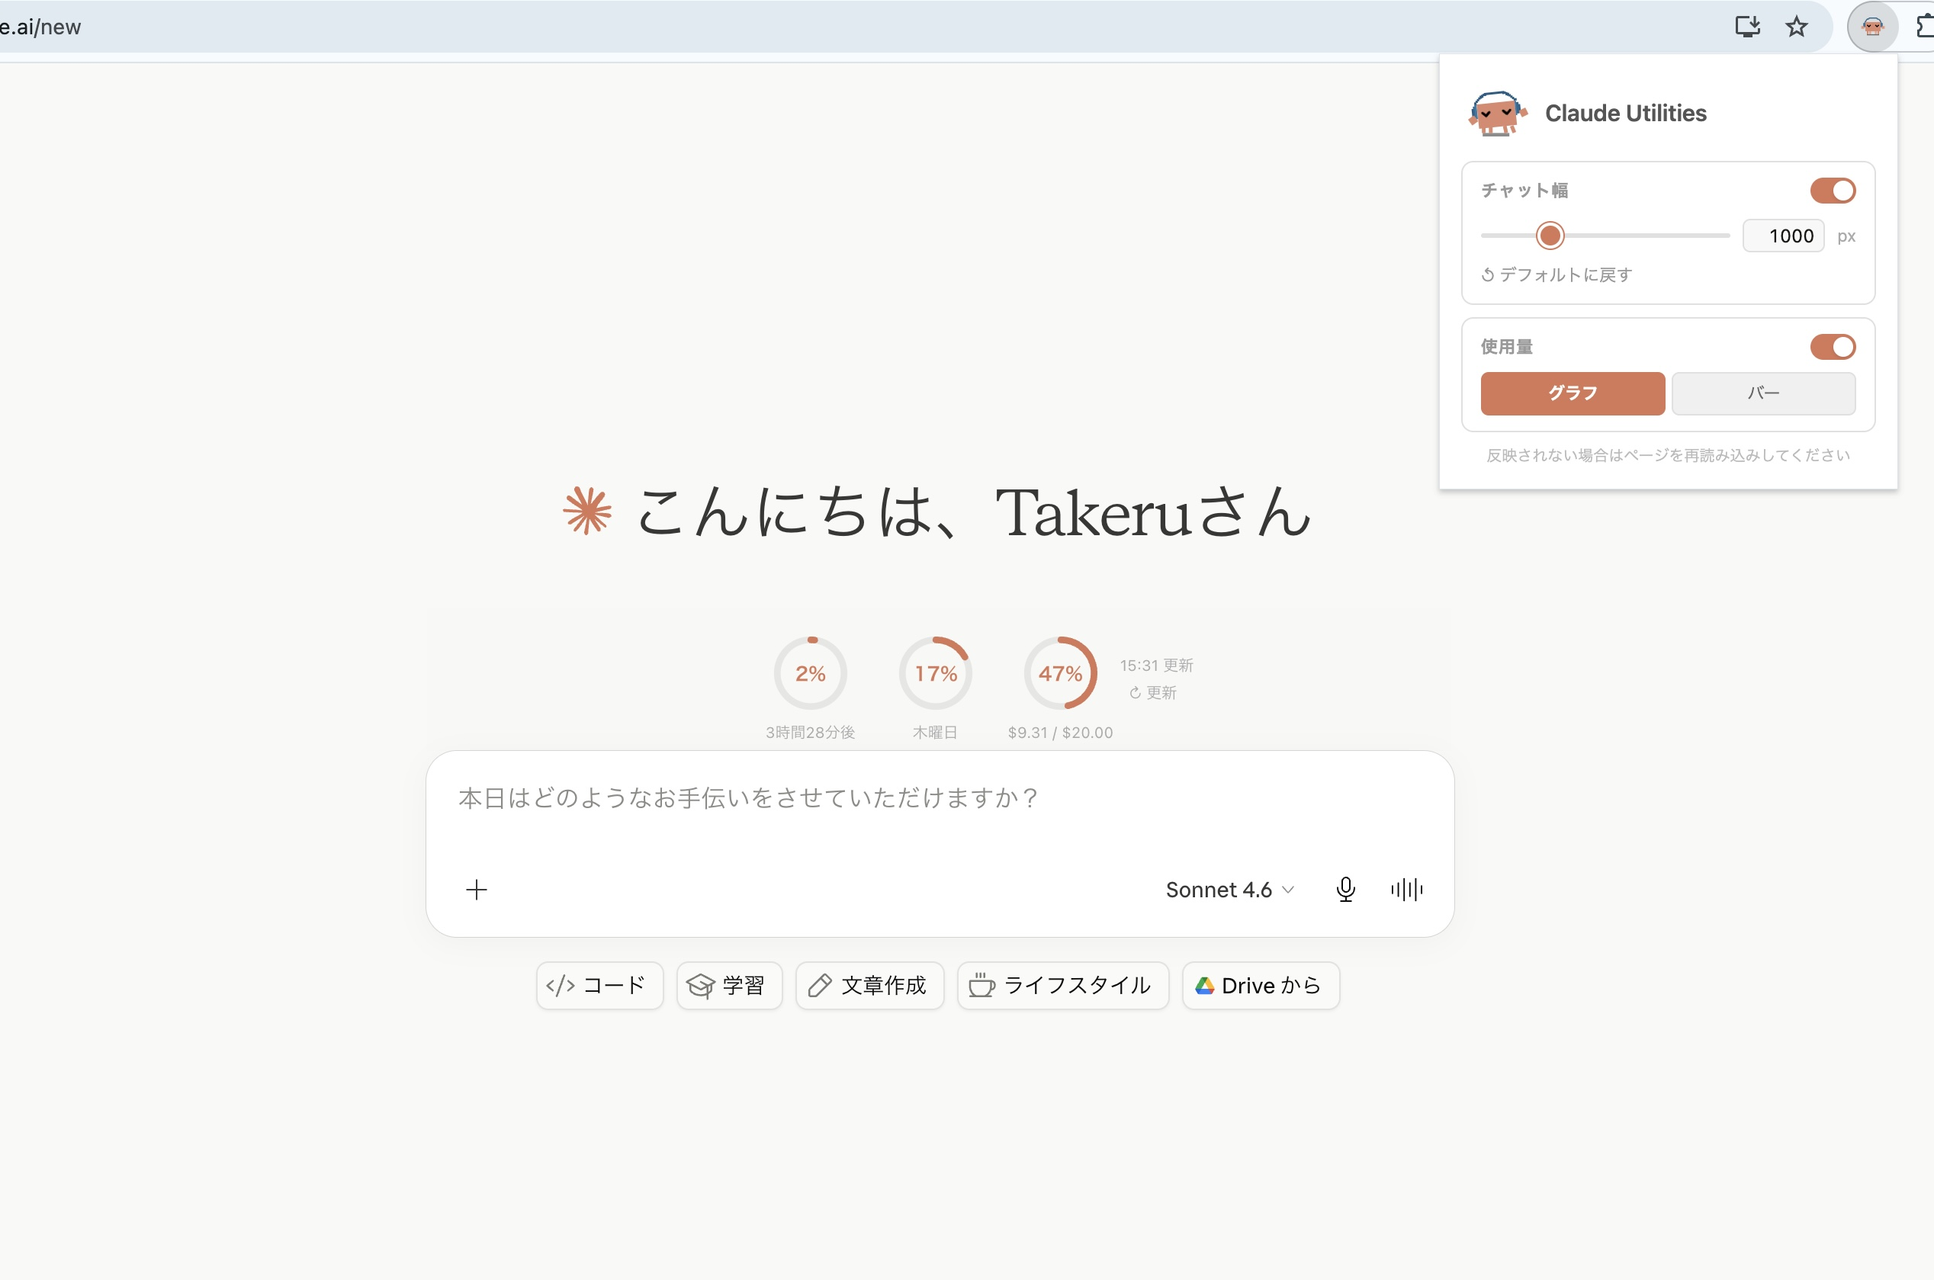
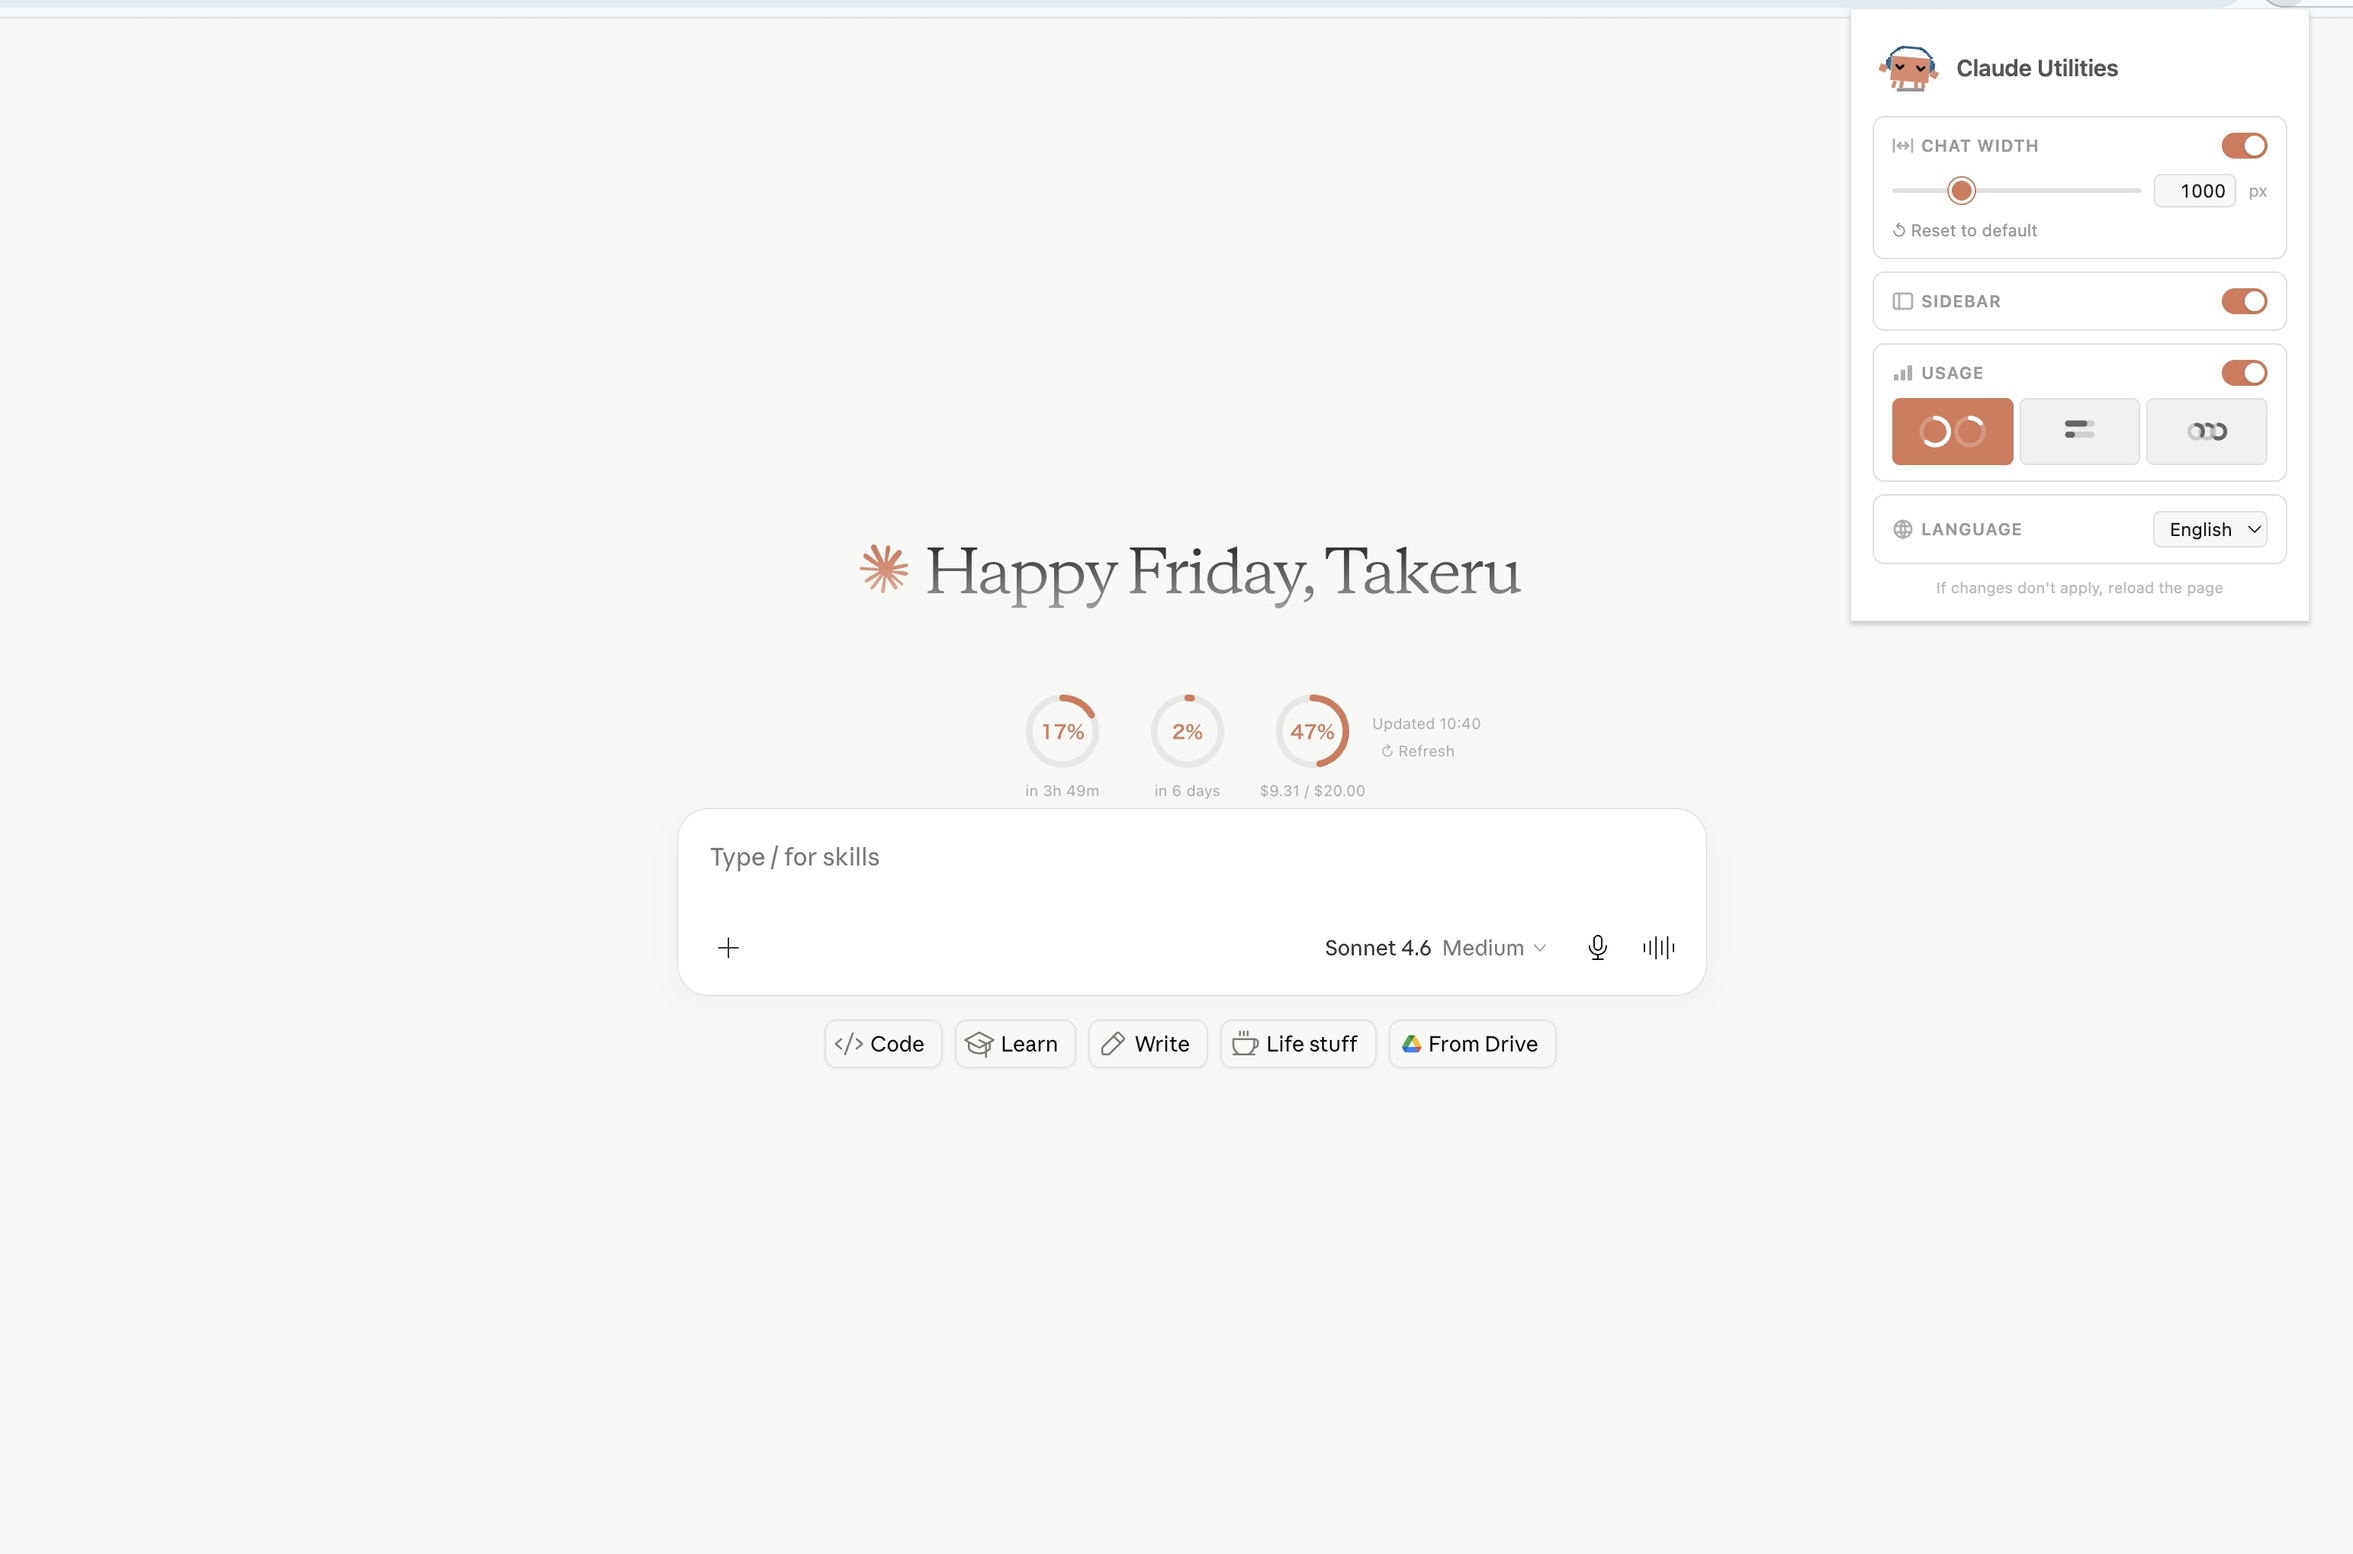
update: READMEの画像の更新

diff --git a/README.md b/README.md
@@ -5,7 +5,8 @@ A Chrome extension to enhance your experience on Claude (claude.ai).
 [日本語](README.ja.md)
 
 <div align="center">
-  <img src="assets/top.jpg" width="100%">
+  <img src="assets/top.jpg" width="55%" style="vertical-align: middle">
+  <img src="assets/popup.jpg" width="28.75%" style="vertical-align: middle">
 </div>
 
 ## Features
